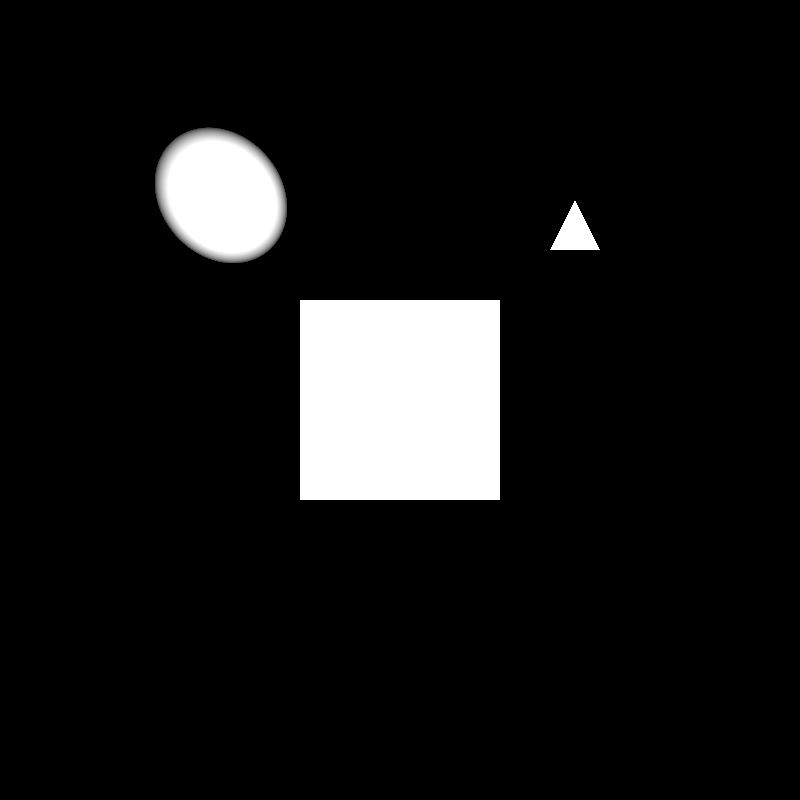
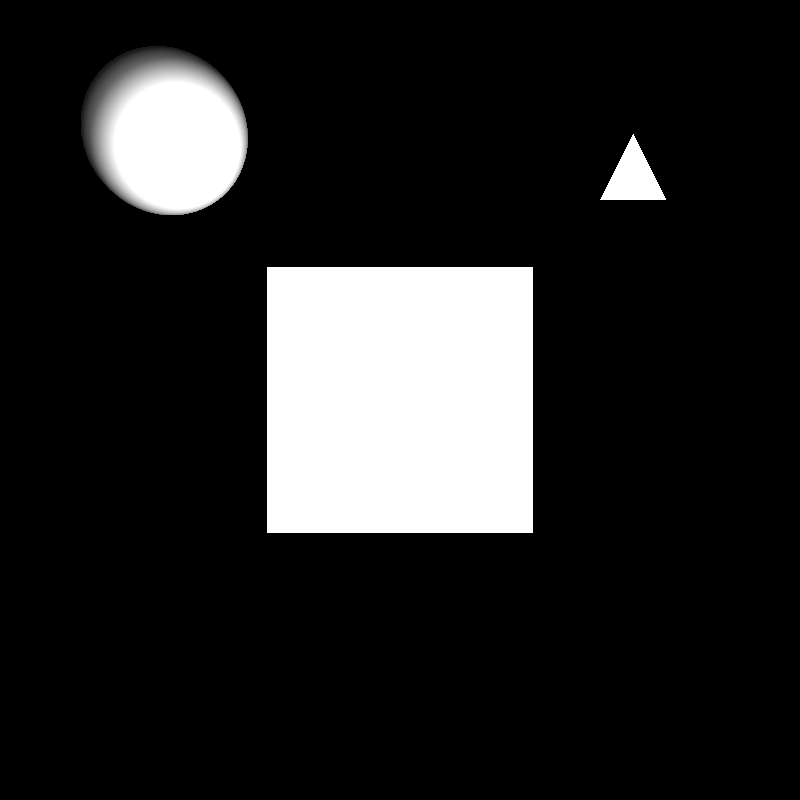
Include additionals images

Changed region(s): [[0.0938, 0.0312, 0.6875, 0.6875], [0.75, 0.1562, 0.8438, 0.25], [0.6875, 0.25, 0.75, 0.3125]]

diff --git a/src/ray-tracer/main/EntryPoint.cpp b/src/ray-tracer/main/EntryPoint.cpp
@@ -28,7 +28,7 @@ int main()
 	Chroma::Shader* shader = Chroma::Shader::ReadAndBuildShaderFromFile("../../assets/shaders/phong.vert", "../../assets/shaders/phong.frag");
 
 	std::shared_ptr<Chroma::Scene> scene;
-	scene = std::make_shared<Chroma::Scene>(*(Chroma::AssetImporter::LoadSceneFromXML(shader, "../../assets/scenes/simple.xml")));
+	scene = std::make_shared<Chroma::Scene>(*(Chroma::AssetImporter::LoadSceneFromXML(shader, "../../assets/scenes/scienceTree.xml")));
 	//init editor
 	Chroma::Editor editor(window, scene.get());
 
